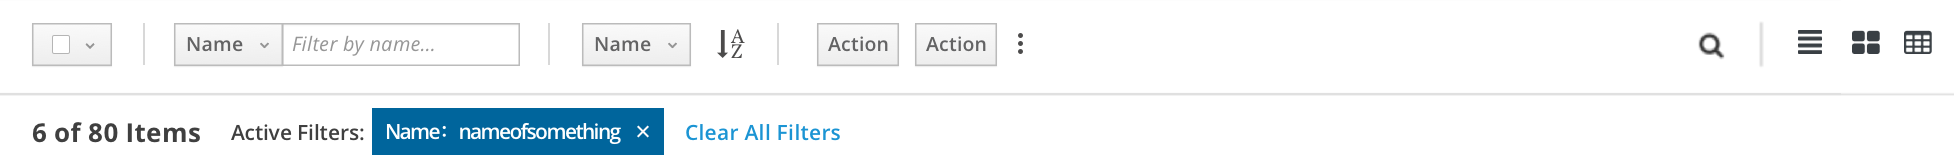
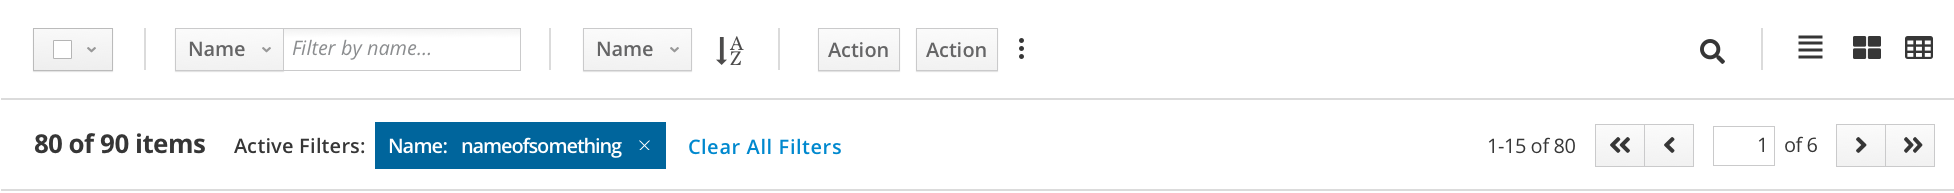
Updated with hopefully no conflicts (#725)

diff --git a/pattern-library/forms-and-controls/toolbar/design/design.md b/pattern-library/forms-and-controls/toolbar/design/design.md
@@ -20,9 +20,11 @@
 
   1. [**View Selector:**](http://www.patternfly.org/pattern-library/forms-and-controls/view-selector/) The View Selector allows the user to switch between different views of the same data set.
 
+  1. **Content and Results Count:** Shows the number of content items that satisfy all currently applied filters, as well as the total number of items and the type of item. If no filters are applied, only the total number of items and the item type are displayed (e.g. 40 Virtual Machines). May be displayed to the left of right-aligned content if stackable filters are disabled.
+
   1. **Active Filters:** A component of the filter tool that contains a list of all currently active filters as well as the Clear All Filters action. Not displayed if stackable filters are disabled.
 
-  1. **Content and Results Count:** Shows the number of content items that satisfy all currently applied filters, as well as the total number of items and the type of item. If no filters are applied, only the total number of items and the item type are displayed (e.g. 40 Virtual Machines). May be displayed to the left of right-aligned content if stackable filters are disabled.
+  1. **Pagination:** A necessary control that is present both above and below content views that allows for navigation between pages without needing to scroll. Refer to the [Pagination](https://www.patternfly.org/pattern-library/navigation/pagination/) design page for more details.
 
 ## Layouts
 

diff --git a/pattern-library/forms-and-controls/toolbar/design/overview.md b/pattern-library/forms-and-controls/toolbar/design/overview.md
@@ -7,13 +7,18 @@ The Toolbar pattern sits above a content view such as a [List View](https://www.
 - Actions
 - [Find](https://www.patternfly.org/pattern-library/forms-and-controls/find/#_)
 - [View Selector](http://www.patternfly.org/pattern-library/forms-and-controls/view-selector/)
+- [Pagination](https://www.patternfly.org/pattern-library/navigation/pagination/)
 
 These controls may be used either together or individually, and may be substituted for other components. The Toolbar pattern should be used any time controls are needed for a content view.
 
 
 ### Toolbar With All Components
 
-![Toolbar with several active filters](img/toolbar-all.png)
+![Toolbar with active filters](img/toolbar-all.png)
+
+### With pagination
+
+![Toolbar with pagination](img/toolbar-w-pagination.png)
 
 ### With Alternate Filter
 
